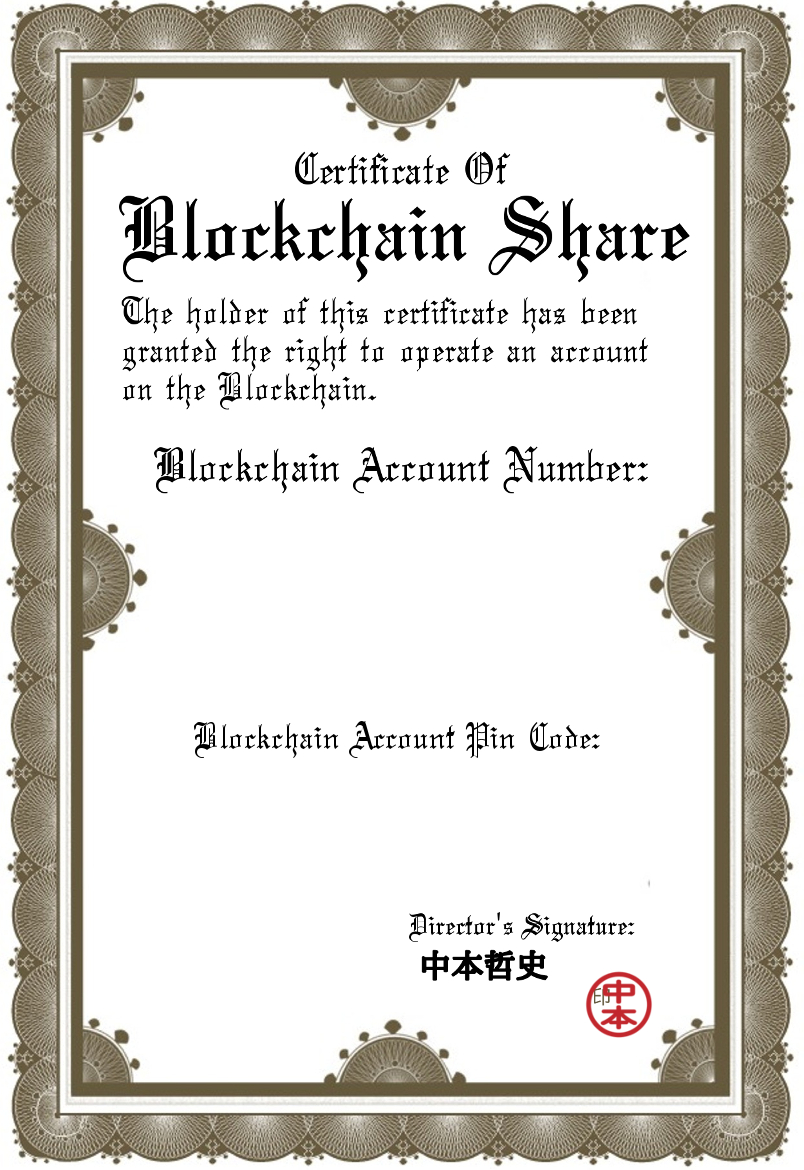
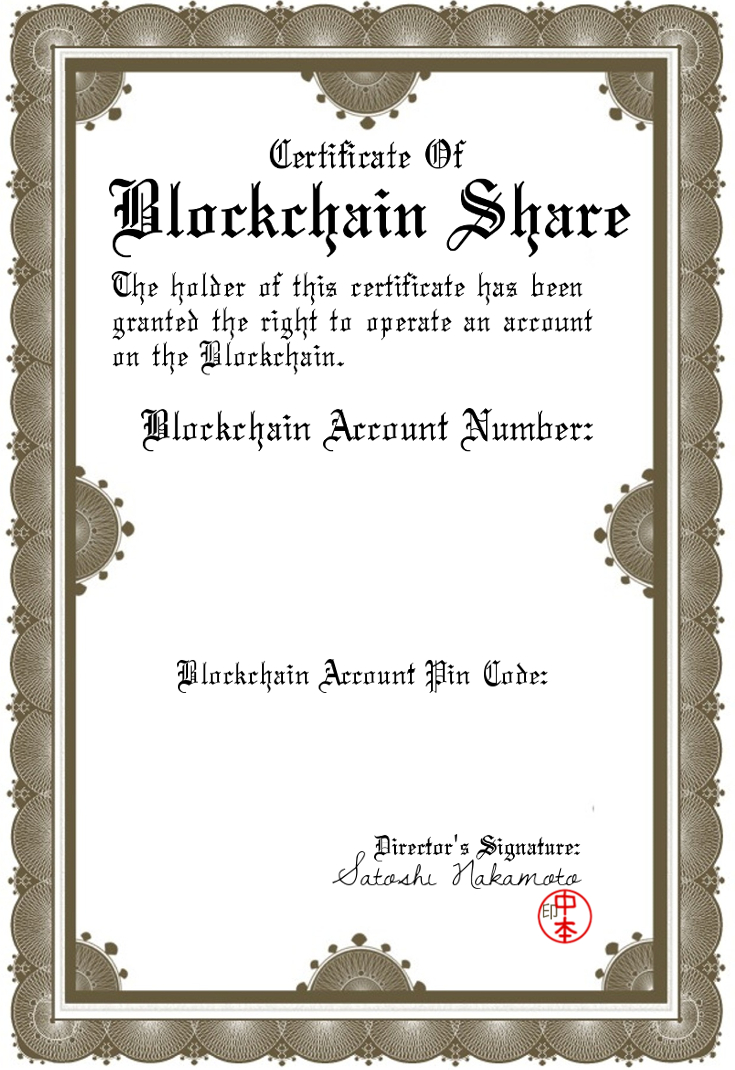
Updated background with a signature

diff --git a/bitaddress.org.html b/bitaddress.org.html
@@ -7646,12 +7646,12 @@ QRAEQRjN+I8AAwASNx25yzHbkwAAAABJRU5ErkJggg==" />
 						<span class="print"><input type="button" name="print" value="Print" id="print" onclick="window.print();" /></span>
 					</div>
 				</div>
-				<div class="body" style="height:1170px;">
-					<img src="certificate.jpg" />
-					<div id="certificateaddress" style="position: relative; top: -670px; font-size: 22px;"></div>
-					<div id="qrcode_public_certificate" class="qrcode_public" style="position: relative; top: -650px;"></div>
-					<div id="certificatekey" style="position: relative; top: -560px; font-size: 18px;"></div>
-					<div id="qrcode_private_certificate" class="qrcode_public" style="position: relative; top: -540px; left: -150px;"></div>
+				<div class="body" style="height:1070px;">
+					<img src="certificate.jpg" style="height: 1000px; width: 700px;" />
+					<div id="certificateaddress" style="position: relative; top: -580px; font-size: 22px;"></div>
+					<div id="qrcode_public_certificate" class="qrcode_public" style="position: relative; top: -570px;"></div>
+					<div id="certificatekey" style="position: relative; top: -510px; font-size: 18px;"></div>
+					<div id="qrcode_private_certificate" class="qrcode_public" style="position: relative; top: -490px; left: -150px;"></div>
 				</div>
 			</div>
 		</div>
